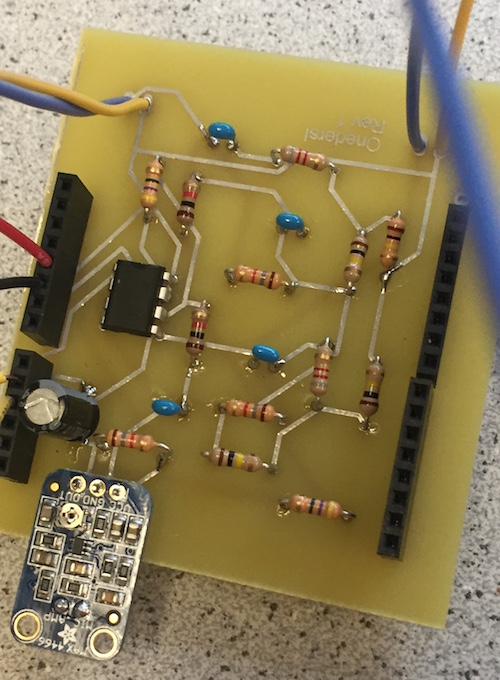
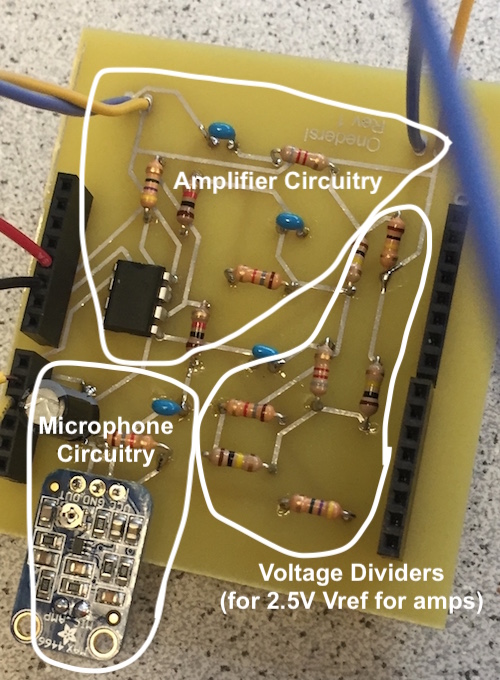
finish physical robot

diff --git a/index.html b/index.html
@@ -573,7 +573,10 @@
 
                     <img class="img-fluid img-centered" src="./resources/top_bot.JPG" alt=""> <br>
 
-                    <p>The PCB (printed circuit board)</p>
+                    <p>The PCB (printed circuit board) contained the circuitry for the IR sensor amplification (so that we could accurately detect treasures) and the microphone output circuit. The microphone output circuit is explained in lab 2 and the IR circuit in Milestone 2. We put two versions of the IR circuit on the board, so that we could have two treasure detection systems running at the same time, on either side of the robot. We were motivated to put these circuits on a PCB because we feared that they would be too fragile on a breadboard, and too difficult to build on a protoboard. The PCB ended up being extremely successful, and ensured the operation of all systems on it. The GitHub contains a folder which holds all relevant schematic files.</p>
+
+                    <img class="img-fluid img-centered" src="./resources/pcb.JPG" alt=""> <br>
+
 
                    <h3>High-Level Control Algorithm</h3>
                     <p> The following diagrams illustrate our high-level algorithm for controlling the robot.</p>
